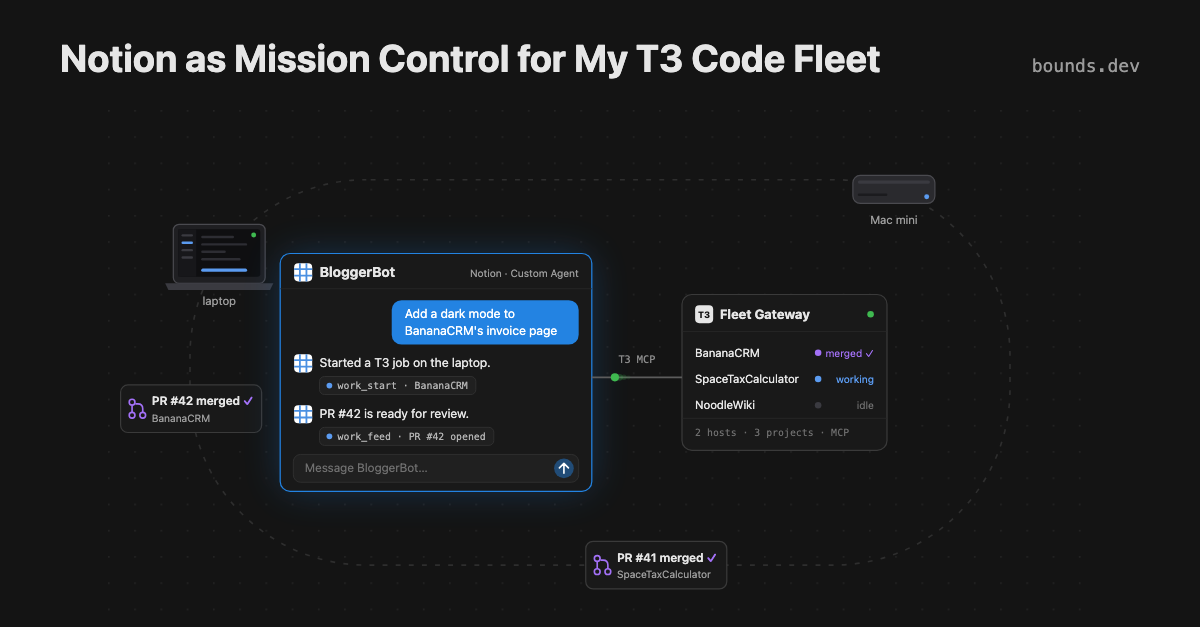
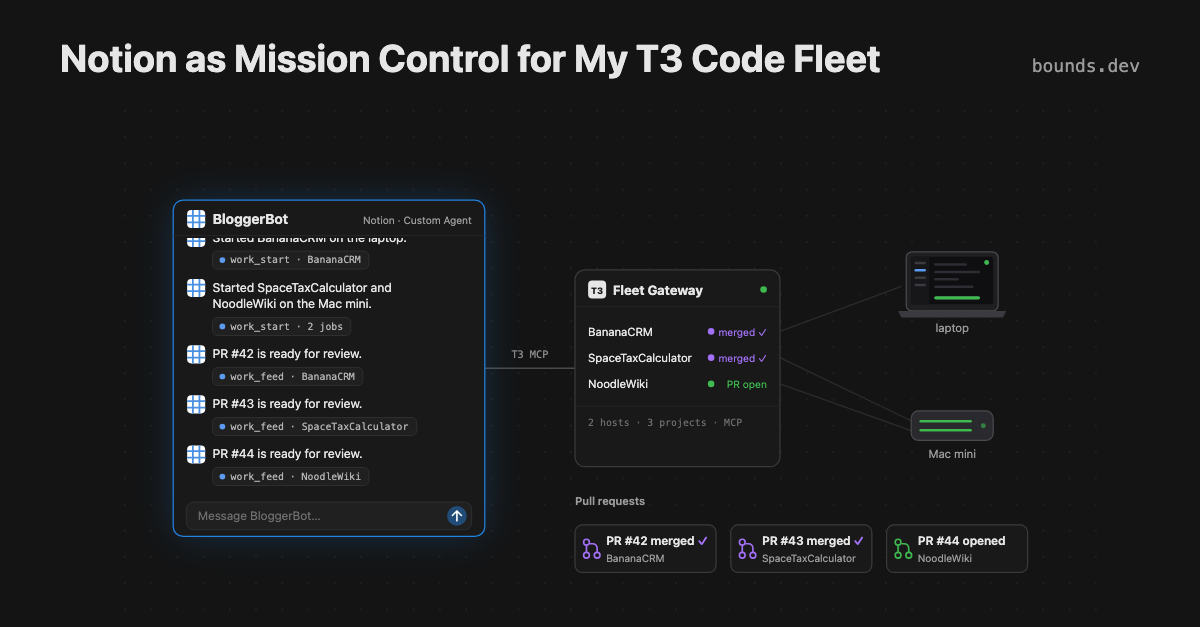
Rework hero animation: stationary machines, multi-project flow

diff --git a/content/posts/t3-fleet-gateway-notion-agents/index.md b/content/posts/t3-fleet-gateway-notion-agents/index.md
@@ -9,8 +9,8 @@ categories: ["dev"]
 ---
 
 <figure style="max-width: 760px; margin: 1.5rem auto;">
-  <img src="notion-fleet-hero.gif" alt="Looping animation: a Notion chat with the fictional agent BloggerBot sits beside a T3 Fleet Gateway panel, joined by a T3 MCP link. A prompt to add a dark mode to BananaCRM's invoice page is typed in Notion and travels to the gateway as a blue pulse; the gateway dispatches work to a laptop, status pulses return to Notion, and a PR #42 card appears in orbit, goes from opened to merged, then the cycle resets. A laptop, a Mac mini, and a merged PR #41 card for SpaceTaxCalculator circle the pair on a dashed track." width="1200" height="627" style="display: block; width: 100%; height: auto;">
-  <figcaption>Mission control, on loop: ask in Notion, the gateway farms it out, a PR comes back.</figcaption>
+  <img src="notion-fleet-hero.gif" alt="Looping animation: a Notion chat with the fictional agent BloggerBot sits beside a T3 Fleet Gateway panel, joined by a T3 MCP link, with a laptop and a Mac mini wired to the gateway and a Pull requests row below. A prompt to start three queued jobs is typed in Notion and travels to the gateway as a blue pulse. The gateway dispatches BananaCRM to the laptop and SpaceTaxCalculator and NoodleWiki to the Mac mini; its project rows go from queued to working to PR open to merged while the machines show progress bars and send pulses back. BloggerBot reports each job starting and each PR ready, and PR #42, #43 and #44 cards pop into the row, two of them flipping to merged, before the scene resets." width="1200" height="627" style="display: block; width: 100%; height: auto;">
+  <figcaption>Mission control, on loop: one ask in Notion, three jobs across two machines, three PRs back.</figcaption>
 </figure>
 
 I work at Notion, so of course I want it to be the interface for my agent fleet, the way Grok Bot was in [my last post]({{< relref "/posts/t3-fleet-gateway" >}}). Blogging is a great place to start. Between MCP and Notion's other connectors, Notion is the center of all my project work, so an agent there already knows what I've been building and what's worth writing about.
